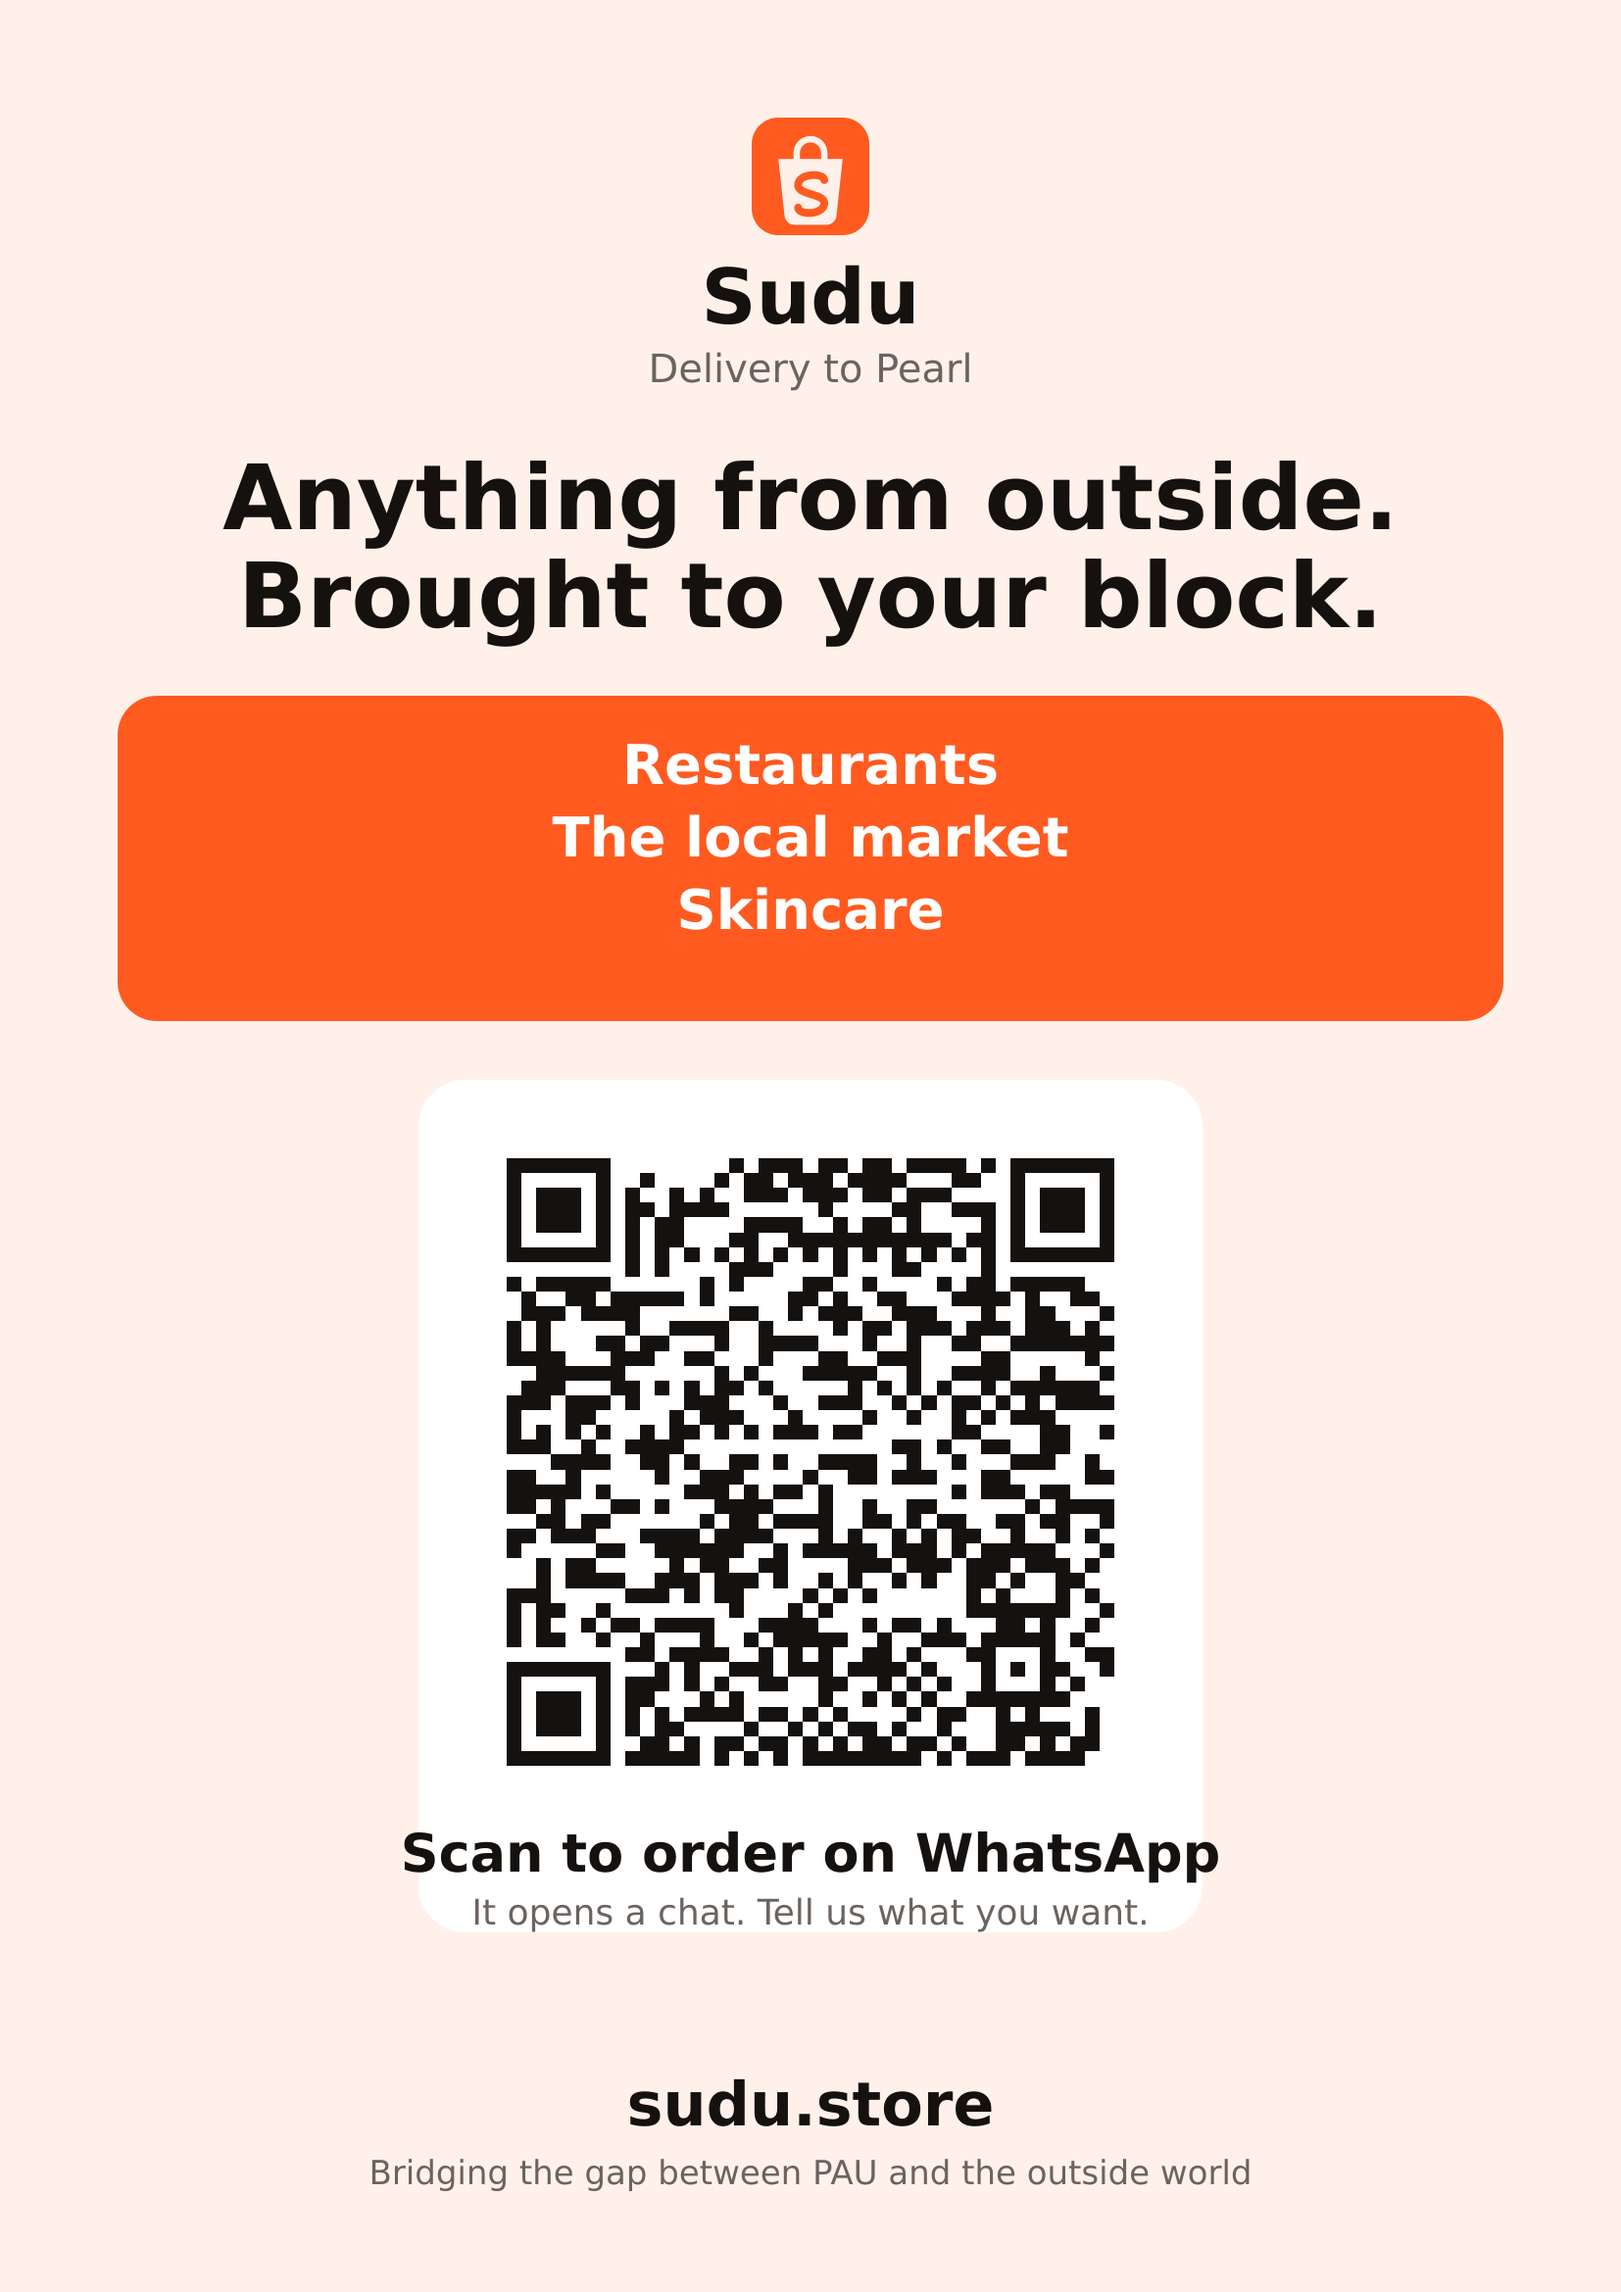
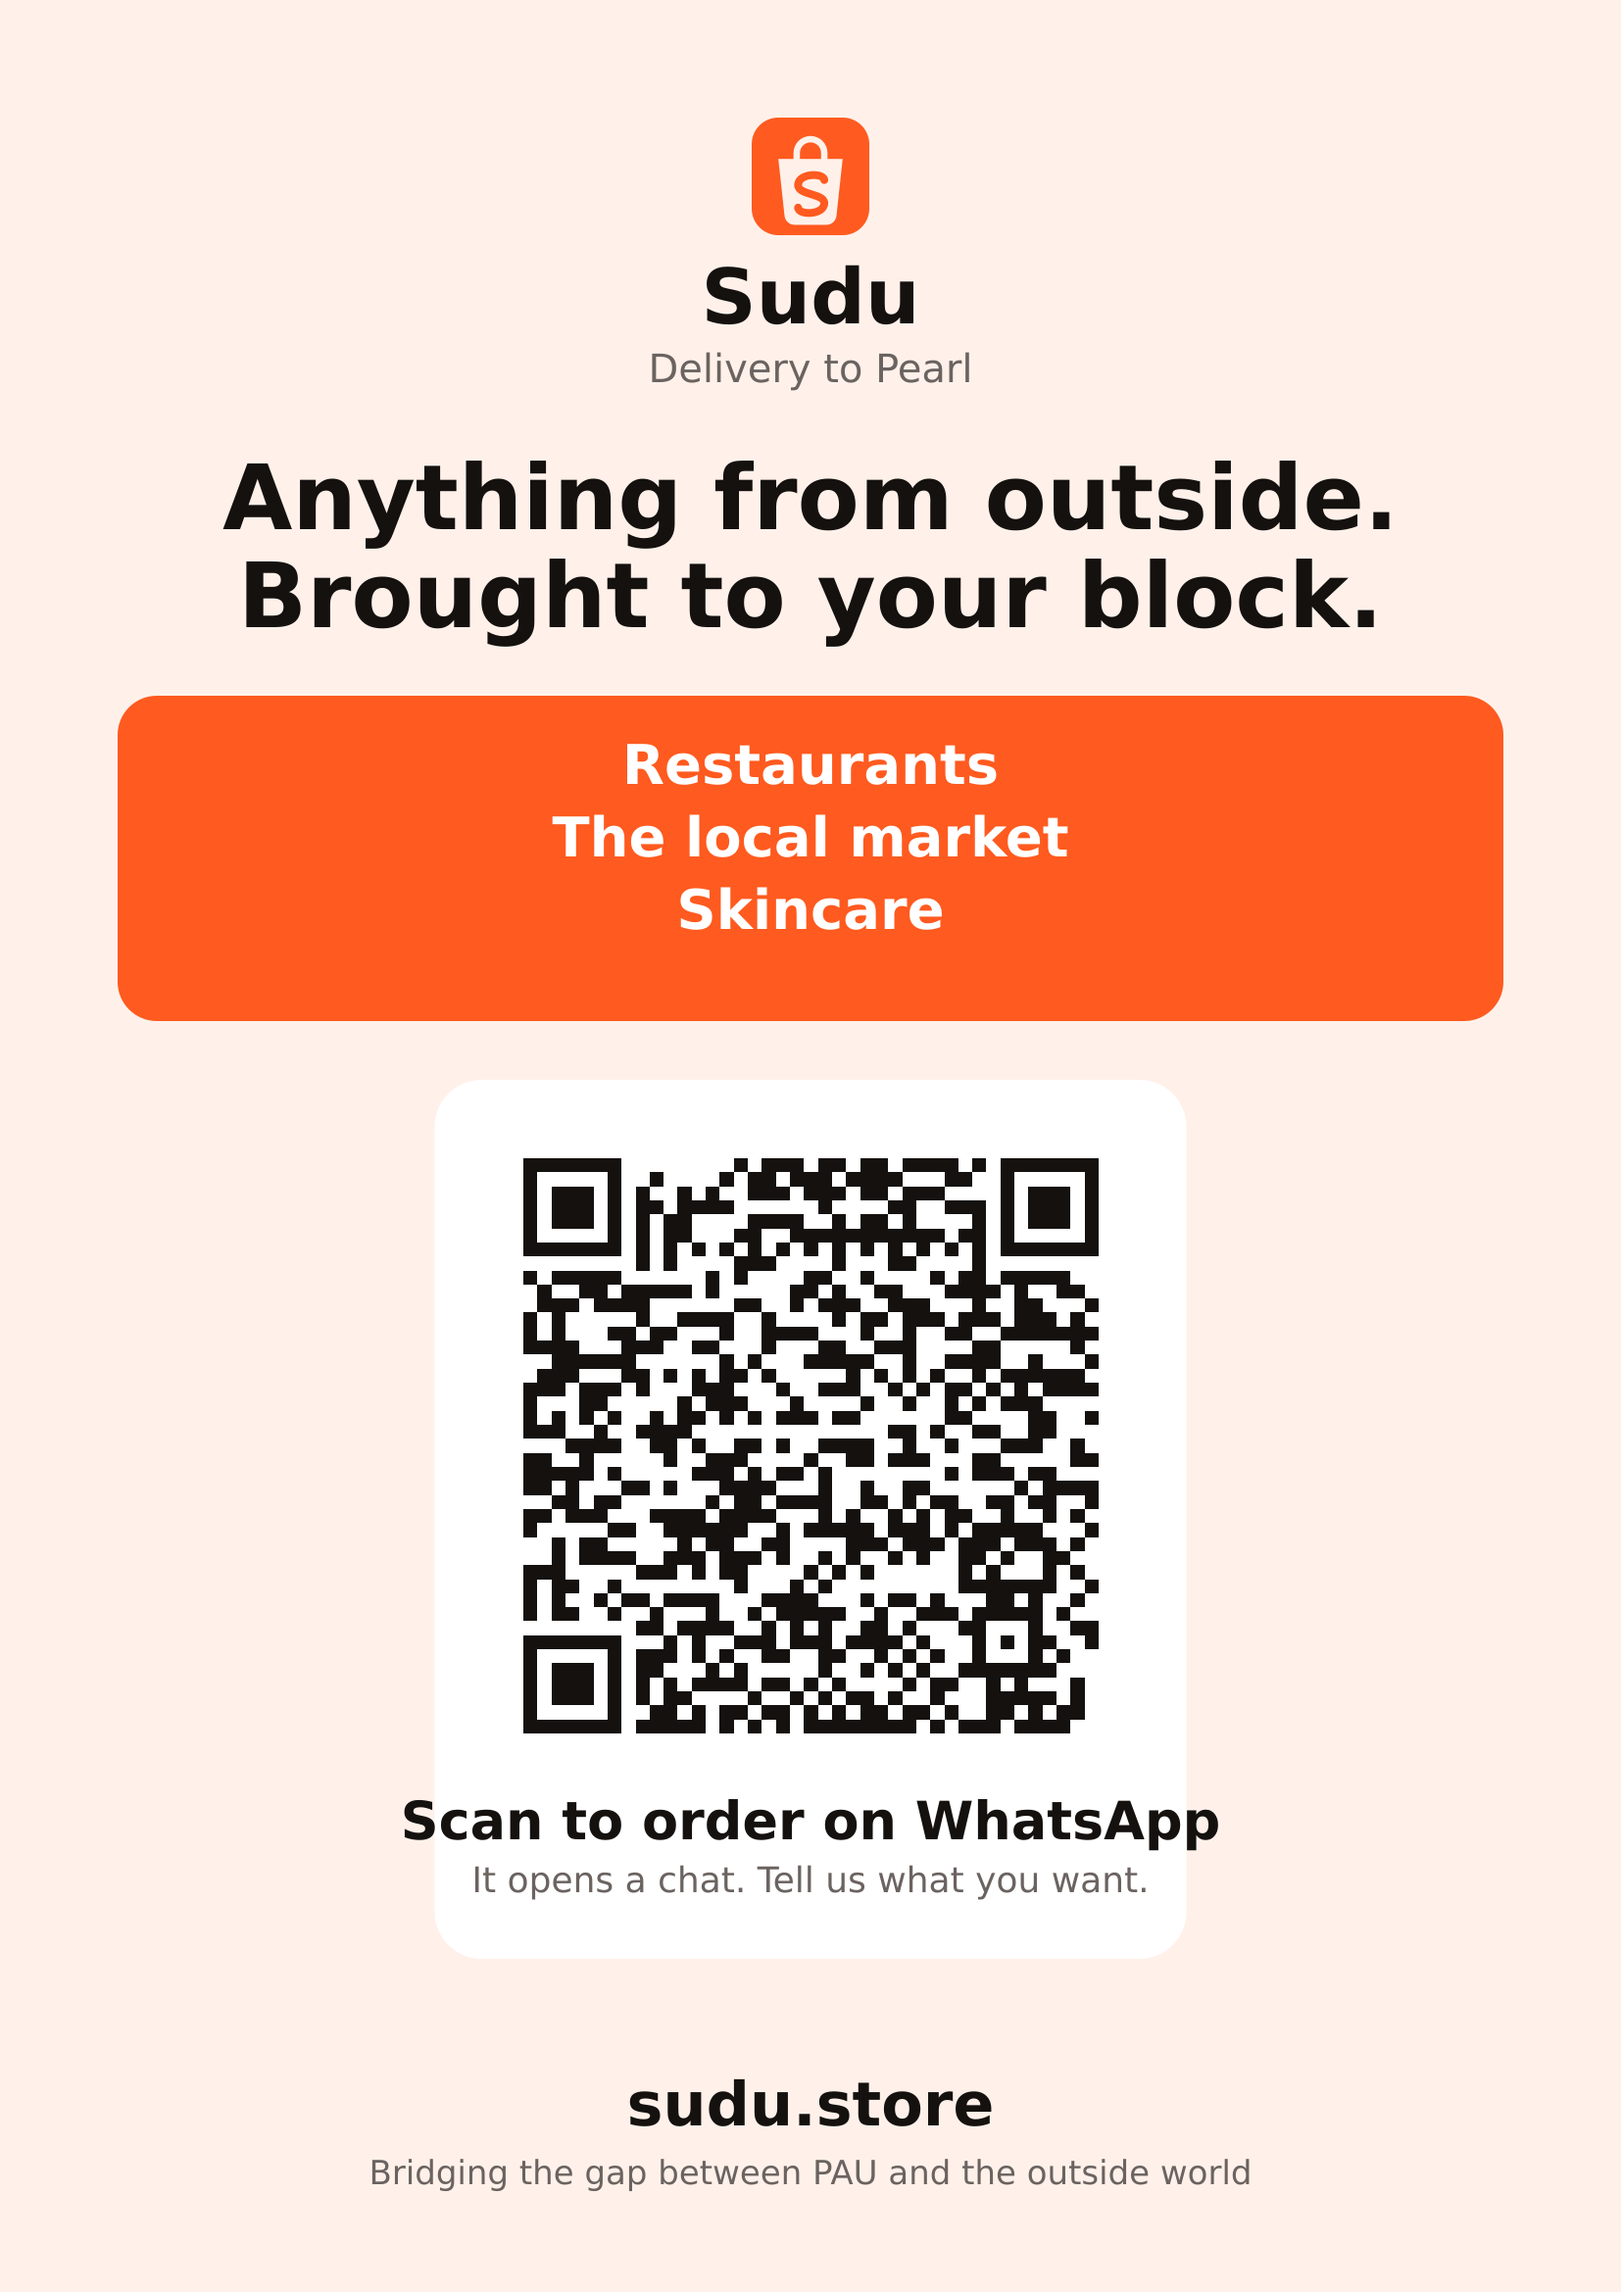
The line under the square belongs inside the square's paper
"It opens a chat" was printed across the bottom edge of the white and out
onto the page behind it: the plate was drawn two hundred and fifty tall
under the square and the two lines beneath it need three hundred and ten.
Measured now rather than guessed, and the square shrinks to suit rather than
the words spilling.

Claude-Session: https://claude.ai/code/session_01A62TtZ3majrmppVL3Tnmwq

Changed region(s): [[0.2467, 0.4994, 0.7709, 0.8427]]

diff --git a/scripts/hostel-flyer.ts b/scripts/hostel-flyer.ts
@@ -168,7 +168,10 @@ async function flyer(hostel: string): Promise<void> {
   const siteAt = H - 170;
 
   const roomForPlate = siteAt - 90 - plateTop;
-  const QR = Math.max(420, Math.min(WANTED_QR, roomForPlate - 250 - 80));
+  // 310 is what sits under the square: eighty to its baseline, the two
+  // lines saying what it is for, and air under the last of them. At 250 the
+  // second line printed over the edge of the white and out onto the paper.
+  const QR = Math.max(420, Math.min(WANTED_QR, roomForPlate - 310 - 80));
 
   // Drawn at the size it is printed at, so the modules land on whole pixels
   // and a phone reads it from across a corridor rather than from a foot away.
@@ -180,7 +183,7 @@ async function flyer(hostel: string): Promise<void> {
   });
 
   const qrTop = plateTop + 80;
-  const plateHeight = QR + 250;
+  const plateHeight = QR + 310;
   const scanAt = qrTop + QR + 100;
 
   const parts: string[] = [
